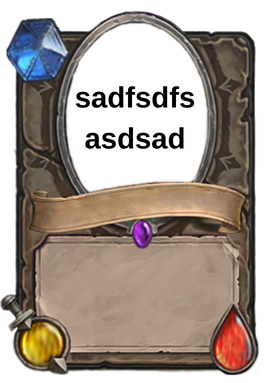
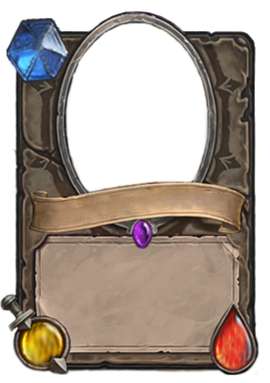
create dynamic card design🎴📇

Changed region(s): [[0.2667, 0.201, 0.7407, 0.2872], [0.2963, 0.3159, 0.6815, 0.4021]]

diff --git a/vite-reduxtoolkit-101/hearstone/src/components/features/hand/handSlice.js b/vite-reduxtoolkit-101/hearstone/src/components/features/hand/handSlice.js
@@ -5,19 +5,30 @@ const initialState = {
 };
 
 const createRandomCard = () => {
-  const cardNames = ["CSS Unleasher", "Portfoliotize", "LinkedIn Bot", "Resume Builder", "Interview Prep", "Job Application", "Job Interview", "Job Offer"];
-  const cardDescriptions = ["Unleash CSS Skils, deal 1 damage to all enemy minions. Draw a card.", "Find an amazing company and let them follow you on LinkedIn.", "This is a random card", "This is a random card", "This is a random card", "This is a random card", "This is a random card", "This is a random card"];
+  const cardNames = [
+    ["CSS Unleasher", "cat", "Unleash CSS Skils, deal 1 damage to all enemy minions. Draw a card."],
+    ["Portfoliotize", "cat", "Find an amazing company and let them follow you on LinkedIn."],
+    ["LinkedIn Bot", "cat", "This is a random card"],
+    ["Resume Builder", "cat", "This is a random card"],
+    ["Interview Prep", "cat", "This is a random card"],
+    ["Job Application", "cat", "This is a random card"],
+    ["Job Interview", "cat", "This is a random card"],
+    ["Job Offer", "cat"]
+  ];
   const cardTypes = ["minion", "spell", "weapon"];
+   
 
   const randomIndex = Math.floor(Math.random() * cardNames.length);
   const randomCard = {
     cardId: Math.random(),
-    cardName: cardNames[randomIndex],
     cardType: cardTypes[Math.floor(Math.random() * cardTypes.length)],
     cardCost: Math.floor(Math.random() * 10),
+    cardName: cardNames[randomIndex][0],
+    cardImageName: cardNames[randomIndex][1],
+    cardDescription: cardNames[randomIndex][2],
+    
     cardAttack: Math.floor(Math.random() * 10),
     cardHealth: Math.floor(Math.random() * 10),
-    cardDescription: cardDescriptions[randomIndex],
   };
   return randomCard;
 };

diff --git a/vite-reduxtoolkit-101/hearstone/src/components/features/Card/GameCard/GameCard.jsx b/vite-reduxtoolkit-101/hearstone/src/components/features/Card/GameCard/GameCard.jsx
@@ -1,13 +1,27 @@
-import './GameCard.css';
+import "./GameCard.css";
 
-export default function GameCard({ position }) {
+export default function GameCard({ position, card }) {
   return (
-    <div className="game-card" style={{ left: position.x, top: position.y, width: position.size }}>
+    <div
+      className="game-card relative"
+      style={{
+        left: position.x,
+        top: position.y,
+        width: position.size,
+        marginLeft: position.offset,
+      }}
+    >
       <img
         src="/public/cards/blank.png"
         alt="game card"
         className="game-card-image"
       />
+      <span className="absolute card-cost">{card.cardCost}</span>
+      <img  className="absolute card-image" src={"/public/cards/card-images/"+ card.cardImageName +".png"} alt="game card" />
+      <span className="absolute card-name">{card.cardName}</span>
+      <span className="absolute card-description">{card.cardDescription}</span>
+      <span className="absolute card-attack">{card.cardAttack}</span>
+      <span className="absolute card-health">{card.cardHealth}</span>
     </div>
   );
 }

diff --git a/vite-reduxtoolkit-101/hearstone/src/components/features/Card/GameCard/GameCard.css b/vite-reduxtoolkit-101/hearstone/src/components/features/Card/GameCard/GameCard.css
@@ -1,7 +1,64 @@
+
+.game-card {
+  z-index: 1;
+}
+
+.card-cost {
+  top: 4px;
+  left: 11px;
+  color: white;
+  font-weight: bolder;
+  text-shadow: 2px 2px 1px black;
+  font-size: 30px;
+}
+
+.card-image {
+  width: 105px;
+  top: 11px;
+  border-radius: 77%;
+  left: 22px;
+  z-index: -1;
+}
+
+.card-name {
+  font-size: 11px;
+  text-shadow: 2px 2px 2px black;
+  color: white;
+  top: 105px;
+  left: 44px;
+  font-weight: bold;
+}
+.card-description {
+  font-size: 9px;
+  text-align: center;
+  width: 88px;
+  font-weight: 500;
+  line-height: 12px;
+  top: 141px;
+  left: 33px;
+}
+
+
+.card-attack {
+  bottom: 6px;
+  left: 15px;
+  color: white;
+  font-weight: bolder;
+  text-shadow: 2px 2px 1px black;
+  font-size: 23px;
+}
+
+.card-health {
+  bottom: 5px;
+  right: 14px;
+  color: white;
+  font-weight: bolder;
+  text-shadow: 2px 2px 1px black;
+  font-size: 23px;
+}
+
 .game-card-image {
   width: 200px;
-  margin-left: -60px;
   min-height: 213px;
   min-width: 147px;
-
 }

diff --git a/vite-reduxtoolkit-101/hearstone/src/components/features/Card/Deck/Deck.jsx b/vite-reduxtoolkit-101/hearstone/src/components/features/Card/Deck/Deck.jsx
@@ -8,8 +8,9 @@ export default function Deck() {
 
   return (
     <div className="deck relative flex">
-      {cards && cards.map((card) => {
-        return <GameCard card={card} position={{ x: 20, y: 22, size: 150 }} key={card.cardId} />;
+      {cards && cards.map((card, i) => {
+        console.log("card", card)
+        return <GameCard card={card} position={{ x: 20, y: 22, size: 150, offset: i>0 ? 20 : 0 }} key={card.cardId} />;
       })}
     </div>
   );

diff --git a/vite-reduxtoolkit-101/hearstone/src/output.css b/vite-reduxtoolkit-101/hearstone/src/output.css
@@ -566,6 +566,10 @@ video {
   bottom: 0px;
 }
 
+.left-10 {
+  left: 2.5rem;
+}
+
 .m-3 {
   margin: 0.75rem;
 }
@@ -594,18 +598,14 @@ video {
   gap: 1.25rem;
 }
 
-.rounded-lg {
-  border-radius: 0.5rem;
-}
-
-.bg-yellow-500 {
-  --tw-bg-opacity: 1;
-  background-color: rgb(234 179 8 / var(--tw-bg-opacity));
-}
-
 .px-2 {
   padding-left: 0.5rem;
   padding-right: 0.5rem;
+}
+
+.text-sm {
+  font-size: 0.875rem;
+  line-height: 1.25rem;
 }
 
 .text-sky-400 {

diff --git a/vite-reduxtoolkit-101/hearstone/src/components/features/Card/Deck/Deck.css b/vite-reduxtoolkit-101/hearstone/src/components/features/Card/Deck/Deck.css
@@ -1,7 +1,6 @@
 .deck {
-  left: 494px;
-  top: 706px;
+  left: 100px;
+  top: 0;
   width: 367px;
-  clip-path: polygon(0 -1%, 105% 0%, 105% 67%, 1% 67%);
-
+}
  
